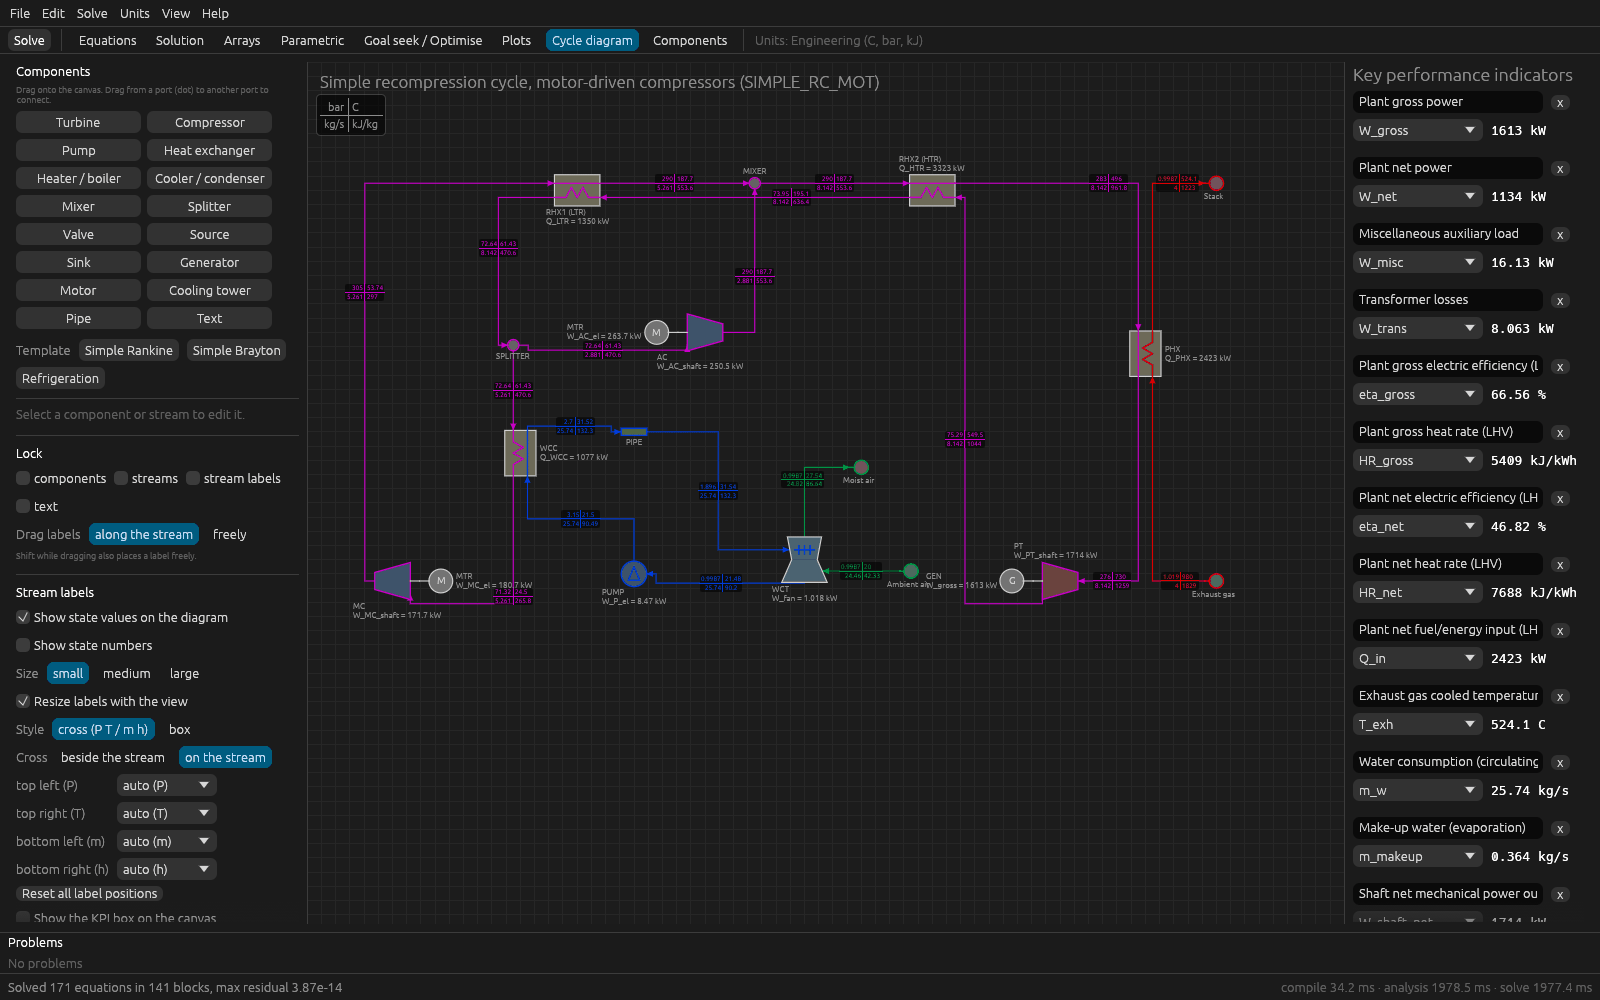
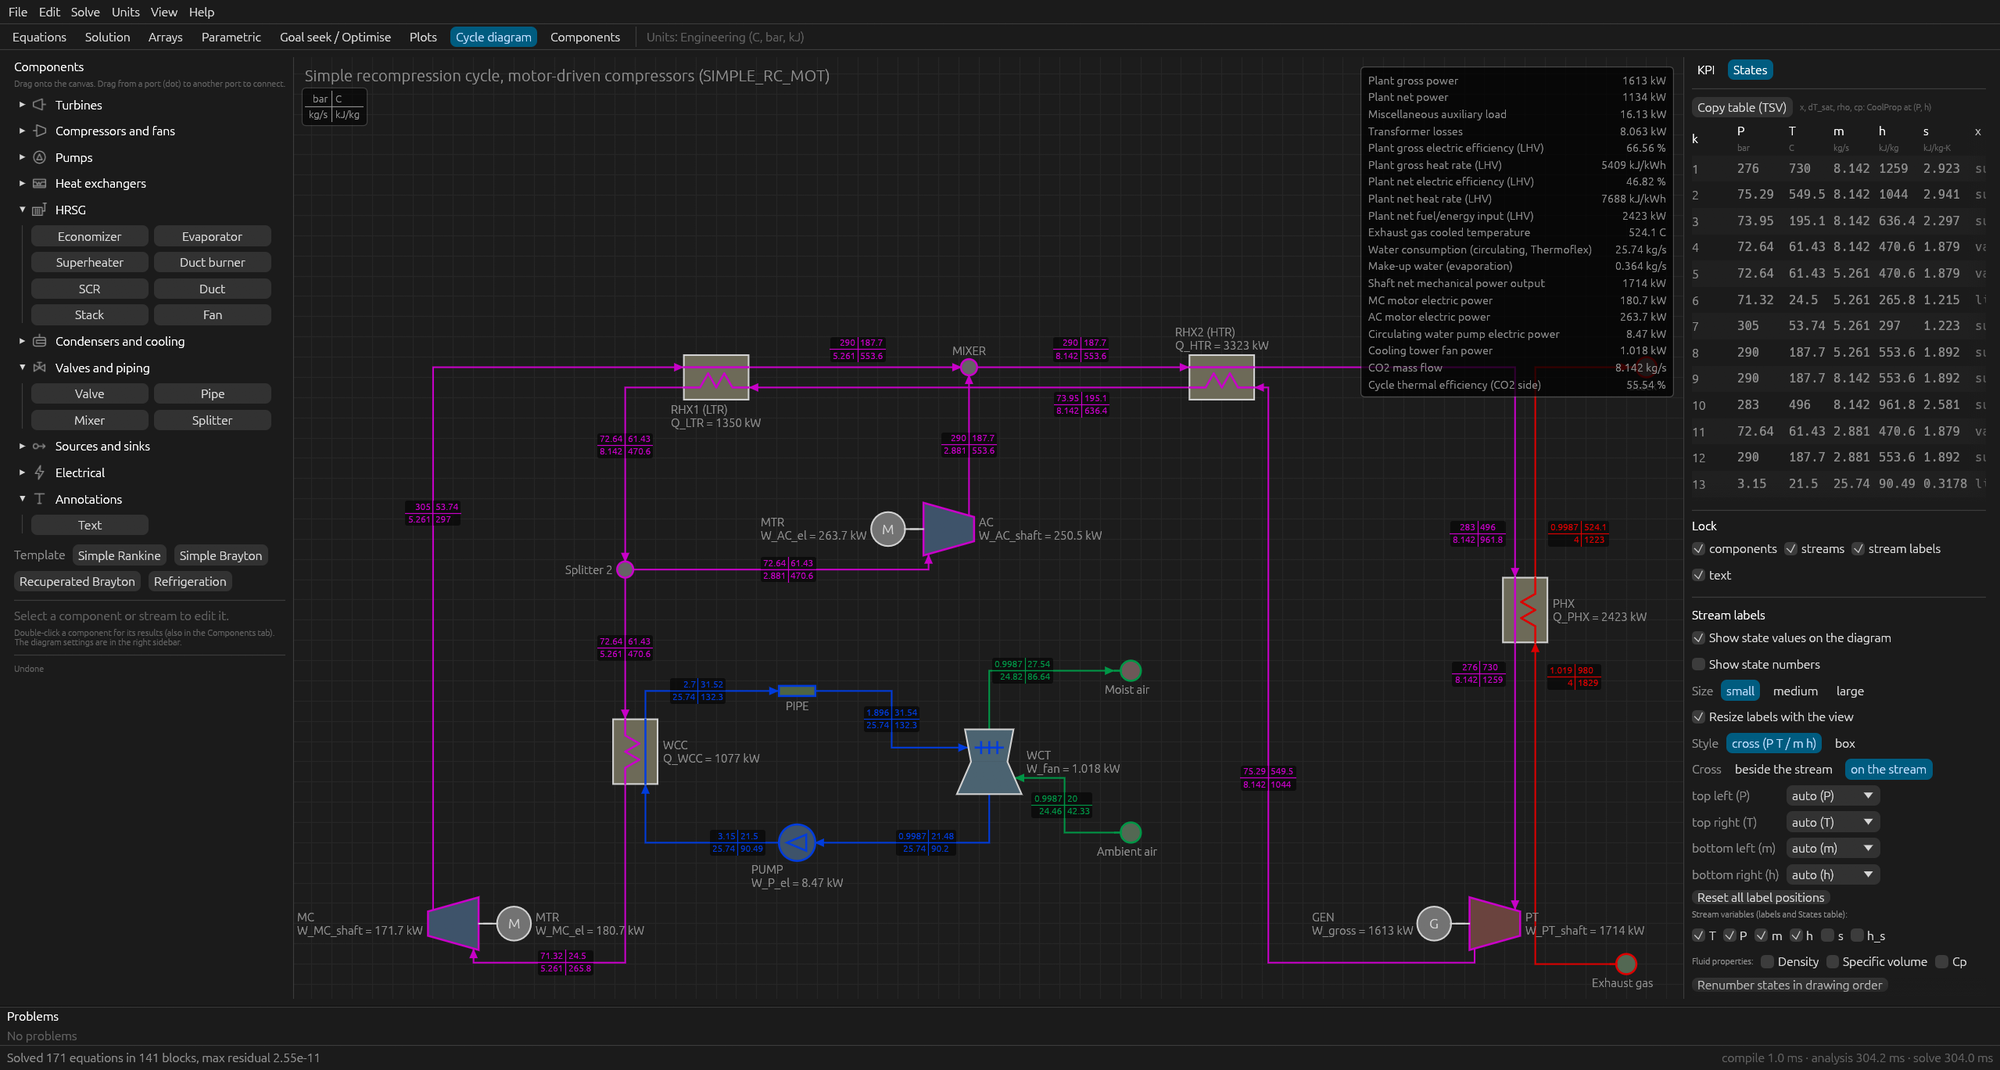
docs(readme): supercritical CO2 figures and an animated editor demo
- Hero: new capture of the simple recompression sCO2 cycle (2000 px).
- Live feedback: animated GIF of editing the sCO2 model (1280x720,
  10 fps, 46 s, 7.9 MB), replacing the Brayton editor screenshot.
- Dependency view: sCO2 model instead of the Rankine example.
- Publication-ready output: add the PDF report of the sCO2 cycle.
- Remove the two screenshots that are no longer referenced.

Claude-Session: https://claude.ai/code/session_011ixSwZJuFZRob9a4jWDL4i

diff --git a/README.md b/README.md
@@ -17,7 +17,7 @@
   <img alt="Platforms" src="https://img.shields.io/badge/platforms-Windows%20%7C%20macOS%20%7C%20Linux-informational">
 </p>
 
-![DF Studio: a recompression supercritical CO₂ cycle with motor-driven compressors, drawn as a flowsheet with live stream values and KPIs](docs/img/cycle-rc.png)
+![DF Studio: a simple recompression supercritical CO₂ cycle with motor-driven compressors, drawn as a flowsheet with live stream values, plant KPIs and the state table](docs/img/cycle-rc.png)
 
 DF Studio solves systems of nonlinear algebraic equations written in any
 order, the way you would write them on paper. Type an energy balance, an
@@ -47,7 +47,7 @@ orange when more equations are needed, red when it is over-specified. The
 header tells you how many degrees of freedom are still open, and which
 variables they are.
 
-![Live structural feedback in the editor](docs/img/editor-brayton.png)
+![Editing the supercritical CO₂ model: the variables panel follows each keystroke, the 172 equations solve once the model is complete, and the dependency view traces how a variable is computed](docs/img/editor-sco2.gif)
 
 **See how your model is solved.** *Equations > Dependencies* shows the solve
 order: which equations are evaluated directly, which are solved together in a
@@ -55,7 +55,7 @@ Newton block, how many iterations each block took and its residual. When a
 model fails, the message names the block and the variables that did not
 converge.
 
-![Dependency view: how h[4] is computed, its Newton block and the solve path](docs/img/dependencies.png)
+![Dependency view of the supercritical CO₂ model: how h[20] is computed, the variables it reads and its place in the solve order of 142 blocks](docs/img/dependencies-sco2.png)
 
 **A solver you can read.** Exact derivatives (automatic differentiation of
 your equations and the analytic derivatives of the equations of state),
@@ -98,6 +98,8 @@ diagrams, entropy generation and exergy destruction.
   without LaTeX or any other tool.
 
 ![T–s diagram of the Rankine example with the saturation dome and isobars](docs/img/property-diagram.png)
+
+![PDF report of the supercritical CO₂ cycle: flowsheet, KPIs and the full state table](docs/img/report-sco2.png)
 
 **Projects that travel.** A `.df` file holds the equations, units, studies,
 plots, flowsheet, last solution and any attached data or images in one
